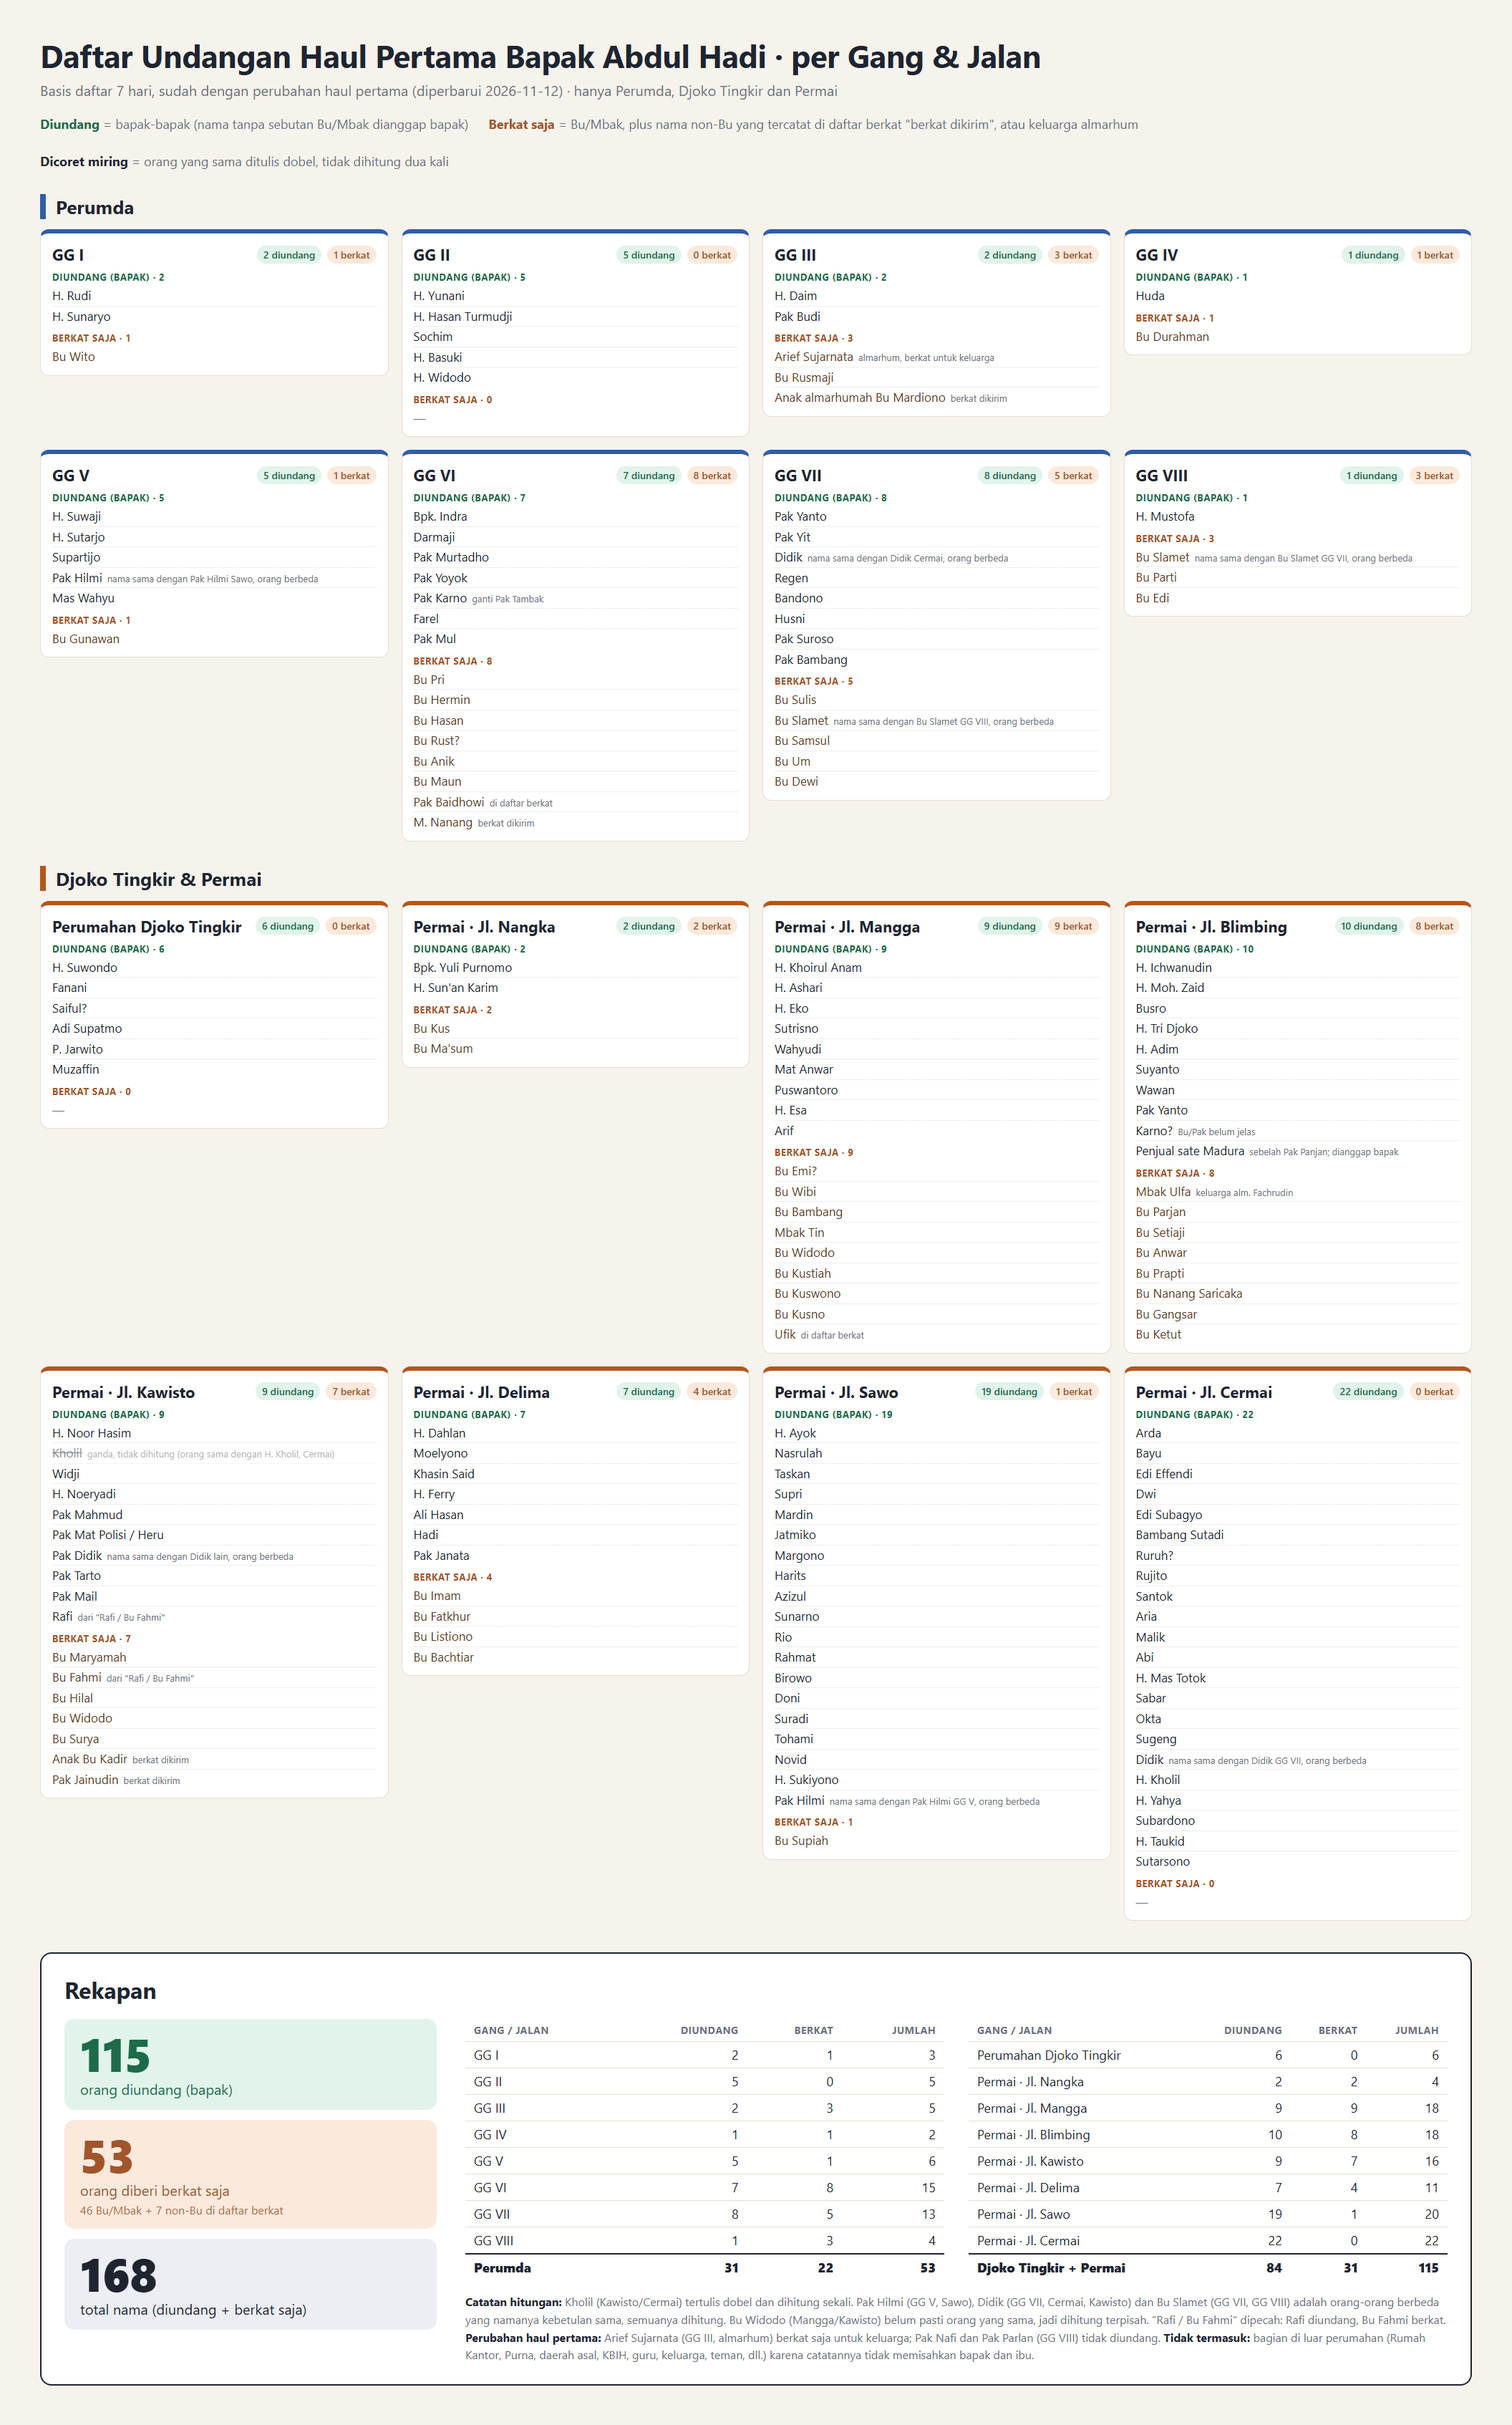
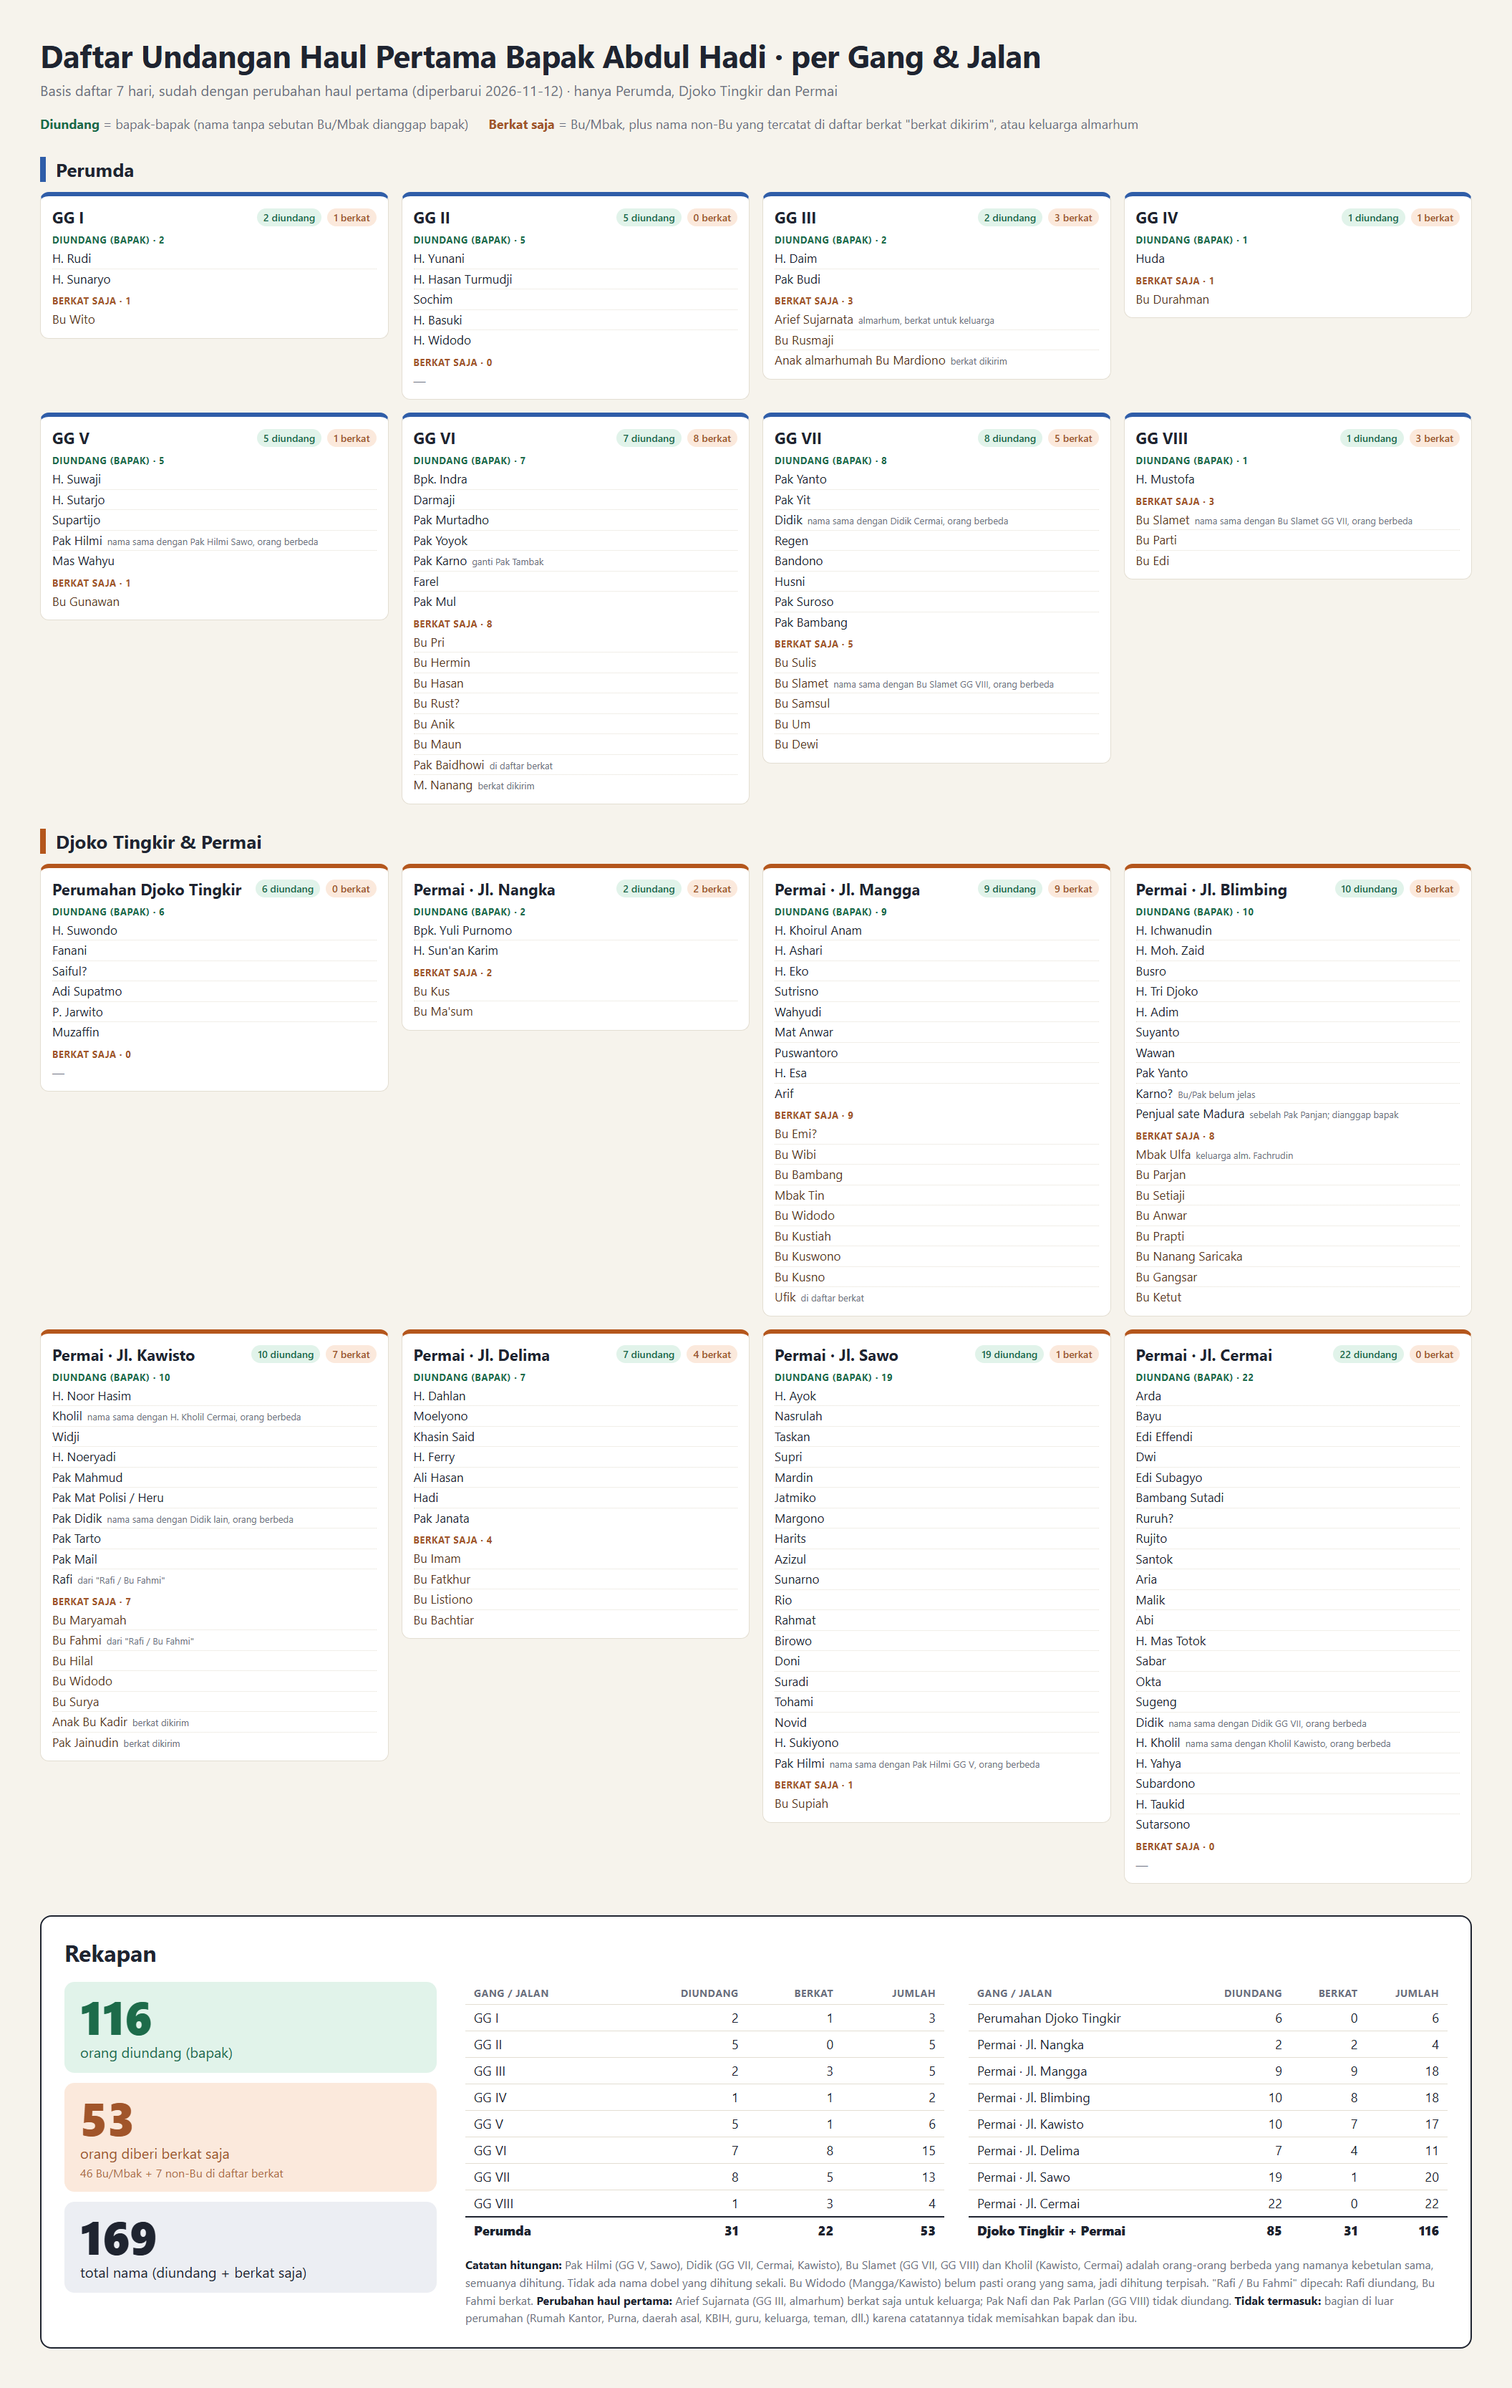
Kholil Kawisto dan H. Kholil Cermai adalah dua orang berbeda
Keduanya dihitung diundang. 7 hari: 119 diundang, 52 berkat, 171 total. Haul pertama: 116 diundang, 53 berkat, 169 total.

diff --git a/Acara/haul-pertama/daftar-undangan.md b/Acara/haul-pertama/daftar-undangan.md
@@ -210,7 +210,7 @@ Catatan update 7 hari Blimbing mencoret H. Adhim. Dia sudah ada sebagai H. Adim,
 | Nama | Jenis |
 |---|---|
 | H. Noor Hasim | T |
-| Kholil *(sudah ditulis di Jl. Cermai sebagai H. Kholil)* | T |
+| Kholil *(nama sama dengan H. Kholil di Jl. Cermai, orang berbeda)* | T |
 | Widji | T |
 | H. Noeryadi | T |
 | Pak Mahmud | T |
@@ -292,7 +292,7 @@ Di sisi kanan lembar ada angka penjumlahan: `27 + 47(?) = 74`. Maksudnya belum j
 | 15 | Okta | |
 | 16 | Sugeng | |
 | 17 | Didik *(nama sama dengan Didik di Perumda GG VII, orang berbeda)* | |
-| 18 | H. Kholil *(sudah ditulis di Jl. Kawisto)* | |
+| 18 | H. Kholil *(nama sama dengan Kholil di Jl. Kawisto, orang berbeda)* | |
 | 19 | H. Yahya | |
 | 20 | Subardono | |
 | 21 | H. Taukid | |
@@ -408,7 +408,7 @@ Dari penyusunan daftar 7 hari (update 2026-11-12):
 - **"7. Bu Ma'sum"**: nomor 7 mungkin merujuk GG 7, atau lanjutan nomor di bawahnya. Saya taruh di Nangka karena letaknya persis di bawah "Nangka: Bu Kus.".
 - **Jumlah WhatsApp tidak cocok**: Ibuk menulis "Berkat diantar nambah 5", tetapi yang disebut ada 8 (Bachtiar, Gangsar, Ketut, Surya, Wito, Maun, Nanang, Durahman). Ditambah dua pesan Minggu malam (anak Bu Kadir, Pak Jainudin, anak almarhumah Bu Mardiono), total jadi 11 nama berkat baru. Semuanya sudah dimasukkan.
 - **Orang di Jl. Cermai tanpa nama**: pesan Ibuk "Jln.cerne yg wingi mari umrah kg baru" bisa berarti baru pulang umrah atau baru selesai membangun rumah. Namanya tidak disebut, jadi belum dimasukkan. Tanya ke Ibuk. Pesan "RT 4 Kabeh Yoo" di bawahnya juga belum jelas, mungkin semua warga RT 4 diundang.
-- **Nama kembar antar gang** (ditulis di kedua tempat, belum pasti orang yang sama): Bu Widodo (Mangga dan Kawisto). Yang sudah dipastikan orang-orang berbeda (namanya kebetulan sama) dan semuanya dihitung: Pak Hilmi (GG V dan Sawo), Bu Slamet (GG VII dan VIII), Didik (GG VII, Cermai, dan Kawisto).
+- **Nama kembar antar gang** (ditulis di kedua tempat, belum pasti orang yang sama): Bu Widodo (Mangga dan Kawisto). Yang sudah dipastikan orang-orang berbeda (namanya kebetulan sama) dan semuanya dihitung: Pak Hilmi (GG V dan Sawo), Bu Slamet (GG VII dan VIII), Didik (GG VII, Cermai, dan Kawisto), Kholil (Kawisto dan Cermai).
 - **Kemungkinan sama dengan yang sudah ada**: Pak Yanto (Blimbing) vs Suyanto, "Pak Panjan" vs Bu Parjan, "Karno?" (Blimbing) vs Pak Karno (GG VI). Tulisan "Rn/Ksn Karno" tidak jelas apakah Bu atau Pak.
 - **Coretan pembuka GG V** tidak terbaca, saya duga Bu Gunawan. Kalau bukan, mungkin ada orang yang hilang dari daftar.
 - **Angka `153 +`** di catatan update 7 hari belum jelas. Hitungan tulis ulang sekarang: Perumda 55 + Djoko Tingkir 6 + Permai 109 = 170 baris.

diff --git a/Acara/7-hari/daftar-undangan.md b/Acara/7-hari/daftar-undangan.md
@@ -223,7 +223,7 @@ Catatan baru Blimbing mencoret H. Adhim. Dia sudah ada sebagai H. Adim, tidak di
 | Nama | Jenis |
 |---|---|
 | H. Noor Hasim | T |
-| Kholil *(sudah ditulis di Jl. Cermai sebagai H. Kholil)* | T |
+| Kholil *(nama sama dengan H. Kholil di Jl. Cermai, orang berbeda)* | T |
 | Widji | T |
 | H. Noeryadi | T |
 | Pak Mahmud | T |
@@ -305,7 +305,7 @@ Di sisi kanan lembar ada angka penjumlahan: `27 + 47(?) = 74`. Maksudnya belum j
 | 15 | Okta | |
 | 16 | Sugeng | |
 | 17 | Didik *(nama sama dengan Didik di Perumda GG VII, orang berbeda)* | |
-| 18 | H. Kholil *(sudah ditulis di Jl. Kawisto)* | |
+| 18 | H. Kholil *(nama sama dengan Kholil di Jl. Kawisto, orang berbeda)* | |
 | 19 | H. Yahya | |
 | 20 | Subardono | |
 | 21 | H. Taukid | |
@@ -421,7 +421,7 @@ Dari update 2026-11-12:
 - **"7. Bu Ma'sum"**: nomor 7 mungkin merujuk GG 7, atau lanjutan nomor di bawahnya. Saya taruh di Nangka karena letaknya persis di bawah "Nangka: Bu Kus.".
 - **Jumlah WhatsApp tidak cocok**: Ibuk menulis "Berkat diantar nambah 5", tetapi yang disebut ada 8 (Bachtiar, Gangsar, Ketut, Surya, Wito, Maun, Nanang, Durahman). Ditambah dua pesan Minggu malam (anak Bu Kadir, Pak Jainudin, anak almarhumah Bu Mardiono), total jadi 11 nama berkat baru. Semuanya sudah dimasukkan.
 - **Orang di Jl. Cermai tanpa nama**: pesan Ibuk "Jln.cerne yg wingi mari umrah kg baru" bisa berarti baru pulang umrah atau baru selesai membangun rumah. Namanya tidak disebut, jadi belum dimasukkan. Tanya ke Ibuk. Pesan "RT 4 Kabeh Yoo" di bawahnya juga belum jelas, mungkin semua warga RT 4 diundang.
-- **Nama kembar antar gang** (ditulis di kedua tempat, belum pasti orang yang sama): Bu Widodo (Mangga dan Kawisto). Yang sudah dipastikan orang-orang berbeda (namanya kebetulan sama) dan semuanya dihitung: Pak Hilmi (GG V dan Sawo), Bu Slamet (GG VII dan VIII), Didik (GG VII, Cermai, dan Kawisto).
+- **Nama kembar antar gang** (ditulis di kedua tempat, belum pasti orang yang sama): Bu Widodo (Mangga dan Kawisto). Yang sudah dipastikan orang-orang berbeda (namanya kebetulan sama) dan semuanya dihitung: Pak Hilmi (GG V dan Sawo), Bu Slamet (GG VII dan VIII), Didik (GG VII, Cermai, dan Kawisto), Kholil (Kawisto dan Cermai).
 - **Kemungkinan sama dengan yang sudah ada**: Pak Yanto (Blimbing) vs Suyanto, "Pak Panjan" vs Bu Parjan, "Karno?" (Blimbing) vs Pak Karno (GG VI). Tulisan "Rn/Ksn Karno" tidak jelas apakah Bu atau Pak.
 - **Coretan pembuka GG V** tidak terbaca, saya duga Bu Gunawan. Kalau bukan, mungkin ada orang yang hilang dari daftar.
 - **Angka `153 +`** di catatan baru belum jelas. Hitungan tulis ulang sekarang: Perumda 55 + Djoko Tingkir 6 + Permai 109 = 170 baris.
